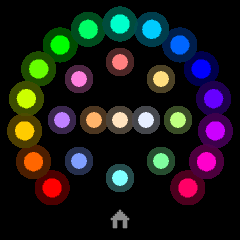
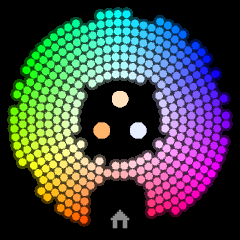
Colour wheel picker, true colours in night mode, 60 s update timeout
- Colour picker redrawn as a wheel of soft LEDs (hue around, saturation
  outwards) with a notch for the home icon; three whites in a triangle in
  the centre; no text. Taps pick any point on the wheel.
- Night mode no longer tints the picker red (ghost LEDs and home stay red).
- http_request timeout 10 s -> 60 s: 1.1.4 OTA downloads stalled part-way
  and were abandoned on a busy network.

diff --git a/pixizhi_draw.h b/pixizhi_draw.h
@@ -708,15 +708,15 @@ inline void music_hero(Canvas &cv, const UiState &s, const std::string &title, c
 constexpr int MUSIC_BTN_X[3] = {80, 120, 160};
 constexpr int MUSIC_BTN_Y = 177, MUSIC_BTN_HALF_W = 19, MUSIC_BTN_TAP_Y0 = 170, MUSIC_BTN_TAP_Y1 = 196;
 
-// Colour picker: 15 saturated hues on an open ring (gap at the bottom for the
-// home icon), 8 pastels inside it and three white temperatures in the middle.
-constexpr int SWATCH_HUES = 15, SWATCH_PASTELS = 8, SWATCH_WHITES = 3;
-constexpr int SWATCH_COUNT = SWATCH_HUES + SWATCH_PASTELS + SWATCH_WHITES;
-struct Swatch {
-  float x, y, pitch;
-  uint32_t rgb;
-  int kelvin;  // 0 for a colour, otherwise a white temperature
-};
+// Colour picker: a round wheel of soft LEDs in concentric rings (hue around,
+// saturation outwards) with a small notch at the bottom for the home icon, and
+// three white temperatures in a triangle in the middle. The hue starts and ends
+// with red at the notch, so there is no visible seam. Drawn in true colours,
+// also in night mode.
+constexpr float WHEEL_IN = 46, WHEEL_OUT = 106, WHEEL_PITCH = 8.6f;
+constexpr float HOME_X = 120, HOME_Y = 210, HOME_CLEAR = 31;  // notch around the home icon
+constexpr float WHITE_R = 21, WHITE_PITCH = 19;
+constexpr int WHITE_COUNT = 3;
 inline uint32_t hsv_rgb(float h, float sat) {
   h = fmodf(h, 360.0f);
   const float c = sat, x = c * (1 - fabsf(fmodf(h / 60.0f, 2.0f) - 1)), m = 1 - c;
@@ -725,41 +725,74 @@ inline uint32_t hsv_rgb(float h, float sat) {
   else if (h < 240) { g = x; b = c; } else if (h < 300) { r = x; b = c; } else { r = c; b = x; }
   return (uint32_t(roundf((r + m) * 255)) << 16) | (uint32_t(roundf((g + m) * 255)) << 8) | uint32_t(roundf((b + m) * 255));
 }
-inline Swatch swatch(int i) {
-  if (i < SWATCH_HUES) {
-    const float a = (135.0f + i * 270.0f / (SWATCH_HUES - 1)) * 0.0174532925f;
-    return Swatch{120 + cosf(a) * 96, 120 + sinf(a) * 96, 22, hsv_rgb(i * 360.0f / SWATCH_HUES, 1.0f), 0};
-  }
-  i -= SWATCH_HUES;
-  if (i < SWATCH_PASTELS) {
-    const float a = (-90.0f + i * 360.0f / SWATCH_PASTELS) * 0.0174532925f;
-    return Swatch{120 + cosf(a) * 58, 120 + sinf(a) * 58, 18, hsv_rgb(i * 360.0f / SWATCH_PASTELS, 0.5f), 0};
-  }
-  i -= SWATCH_PASTELS;
-  static const uint32_t WHITES[SWATCH_WHITES] = {0xFFB46B, 0xFFE2BD, 0xE6EEFF};
-  static const int KELVIN[SWATCH_WHITES] = {2700, 4000, 6500};
-  return Swatch{94.0f + i * 26, 120, 18, WHITES[i], KELVIN[i]};
+struct WhiteDot {
+  float x, y;
+  uint32_t rgb;
+  int kelvin;
+};
+// Warm at the bottom left, neutral at the top, cool at the bottom right.
+inline WhiteDot white_dot(int i) {
+  static const uint32_t RGB[WHITE_COUNT] = {0xFFB46B, 0xFFE2BD, 0xE6EEFF};
+  static const int KELVIN[WHITE_COUNT] = {2700, 4000, 6500};
+  static const float ANGLE[WHITE_COUNT] = {150, 270, 30};  // degrees, screen coordinates
+  const float a = ANGLE[i] * 0.0174532925f;
+  return WhiteDot{120 + cosf(a) * WHITE_R, 120 + sinf(a) * WHITE_R, RGB[i], KELVIN[i]};
 }
-// Swatch under a point, or -1.
-inline int swatch_at(int px, int py) {
-  int best = -1;
-  float best_d = 1e9f;
-  for (int i = 0; i < SWATCH_COUNT; i++) {
-    const Swatch w = swatch(i);
-    const float dx = px - w.x, dy = py - w.y, d = dx * dx + dy * dy, reach = w.pitch * 0.42f + 6;
-    if (d <= reach * reach && d < best_d) { best = i; best_d = d; }
+// Colour of the wheel at a point; false outside the wheel or in the notch.
+inline bool wheel_color(float px, float py, uint32_t &out, float slack = 0) {
+  const float dx = px - 120, dy = py - 120, d = sqrtf(dx * dx + dy * dy);
+  if (d < WHEEL_IN - slack || d > WHEEL_OUT + slack) return false;
+  const float hx = px - HOME_X, hy = py - HOME_Y;
+  if (hx * hx + hy * hy < HOME_CLEAR * HOME_CLEAR) return false;
+  float a = atan2f(-dx, dy) * 57.2957795f;  // 0 at the bottom, clockwise
+  if (a < 0) a += 360;
+  const float sat = 0.2f + 0.8f * std::min(1.0f, std::max(0.0f, (d - WHEEL_IN) / (WHEEL_OUT - WHEEL_IN)));
+  out = hsv_rgb(a, sat);
+  return true;
+}
+// What a tap picks: 0 nothing, 1 a colour (rgb), 2 a white (kelvin).
+struct ColorPick {
+  int kind = 0;
+  uint32_t rgb = 0;
+  int kelvin = 0;
+};
+inline ColorPick color_pick(int px, int py) {
+  ColorPick p;
+  for (int i = 0; i < WHITE_COUNT; i++) {
+    const WhiteDot w = white_dot(i);
+    const float dx = px - w.x, dy = py - w.y;
+    if (dx * dx + dy * dy <= 13 * 13) { p.kind = 2; p.rgb = w.rgb; p.kelvin = w.kelvin; return p; }
   }
-  return best;
+  if (wheel_color(px, py, p.rgb, 6)) p.kind = 1;
+  return p;
 }
 
 inline void draw_colors(Canvas &cv, const UiState &s) {
   if (s.cur_slot < 0 || s.cur_slot >= 6) { footer(cv, s); return; }
   const auto &q = s.slots[s.cur_slot];
-  for (int i = 0; i < SWATCH_COUNT; i++) {
-    const Swatch w = swatch(i);
-    const bool on = q.available && (w.kelvin ? q.white : q.color);
-    led(cv, w.x, w.y, w.pitch, on ? rgb(w.rgb) : GHOST, on);
+  // A colour picker has to show the real colours, so the night tint is lifted
+  // for lit LEDs only; unavailable (ghost) LEDs and the home icon stay red.
+  const bool night = cv.night;
+  const bool colors = q.available && q.color, whites = q.available && q.white;
+  const int rings = int(roundf((WHEEL_OUT - WHEEL_IN) / WHEEL_PITCH));
+  for (int k = 0; k <= rings; k++) {
+    const float r = WHEEL_IN + k * (WHEEL_OUT - WHEEL_IN) / rings;
+    const int n = int(roundf(2 * 3.14159265f * r / WHEEL_PITCH));
+    for (int j = 0; j < n; j++) {
+      const float a = (j + 0.5f * (k & 1)) * 2 * 3.14159265f / n;
+      const float x = 120 + cosf(a) * r, y = 120 + sinf(a) * r;
+      uint32_t c;
+      if (!wheel_color(x, y, c)) continue;
+      cv.night = night && !colors;
+      led(cv, x, y, WHEEL_PITCH, colors ? rgb(c) : GHOST, colors);
+    }
   }
+  for (int i = 0; i < WHITE_COUNT; i++) {
+    const WhiteDot w = white_dot(i);
+    cv.night = night && !whites;
+    led(cv, w.x, w.y, WHITE_PITCH, whites ? rgb(w.rgb) : GHOST, false);
+  }
+  cv.night = night;
   footer(cv, s);
 }
 

diff --git a/tests/test_helpers.cpp b/tests/test_helpers.cpp
@@ -73,16 +73,27 @@ static void test_fold() {
   CHECK(fold("\xC5") == "?");                                               // truncated sequence does not overrun
 }
 
-static void test_swatches() {
+static void test_color_wheel() {
   using namespace draw;
-  for (int i = 0; i < SWATCH_COUNT; i++) {
-    const Swatch w = swatch(i);
-    CHECK(swatch_at(int(roundf(w.x)), int(roundf(w.y))) == i);  // every swatch can be hit at its centre
-    const float dx = w.x - 120, dy = w.y - 120;
-    CHECK(dx * dx + dy * dy < 116 * 116);                        // and sits inside the round screen
-    CHECK((w.kelvin != 0) == (i >= SWATCH_HUES + SWATCH_PASTELS));
+  for (int i = 0; i < WHITE_COUNT; i++) {
+    const WhiteDot w = white_dot(i);
+    const ColorPick p = color_pick(int(roundf(w.x)), int(roundf(w.y)));
+    CHECK(p.kind == 2 && p.kelvin == w.kelvin);  // every white can be hit at its centre
   }
-  CHECK(swatch_at(120, 210) == -1);  // the home icon stays free
+  CHECK(color_pick(120, 210).kind == 0);           // the home icon stays free
+  CHECK(color_pick(120, 120 - 104).kind == 1);     // the rim is a colour
+  uint32_t c = 0;
+  CHECK(wheel_color(120, 120 - WHEEL_OUT, c));
+  CHECK(!wheel_color(HOME_X, HOME_Y - 12, c));     // the notch around the home icon
+  CHECK(wheel_color(120, 120 + 50, c));            // but the wheel is otherwise round
+  CHECK(!wheel_color(120, 120 - 30, c));           // the middle belongs to the whites
+  // Both sides of the notch are red, so the hue has no jump.
+  const float a = 115 * 0.0174532925f, b = 65 * 0.0174532925f;
+  uint32_t l = 0, r = 0;
+  CHECK(wheel_color(120 + cosf(a) * WHEEL_OUT * 0.95f, 120 + sinf(a) * WHEEL_OUT * 0.95f, l));
+  CHECK(wheel_color(120 + cosf(b) * WHEEL_OUT * 0.95f, 120 + sinf(b) * WHEEL_OUT * 0.95f, r));
+  CHECK((l >> 16) > 0xE0 && (r >> 16) > 0xE0);
+  CHECK(WHEEL_OUT + WHEEL_PITCH * 0.42f < 116);    // the wheel sits inside the round screen
   CHECK(hsv_rgb(0, 1) == 0xFF0000 && hsv_rgb(120, 1) == 0x00FF00 && hsv_rgb(240, 1) == 0x0000FF);
 }
 
@@ -111,6 +122,18 @@ static void test_render() {
           CHECK(red_only);
         }
       }
+  // Night mode tints everything red except a usable colour picker.
+  {
+    UiState s;
+    s.screen = S_COLORS; s.cur_slot = 0;
+    s.slots[0].eid = "light.a"; s.slots[0].available = true; s.slots[0].color = true; s.slots[0].white = true;
+    cv.night = true;
+    draw_frame(cv, s);
+    bool colourful = false;
+    for (int i = 0; i < 240 * 240; i++) colourful |= cv.data[i * 3 + 1] > 64 || cv.data[i * 3 + 2] > 64;
+    CHECK(colourful);
+    CHECK(cv.night);  // the picker restores the night flag
+  }
   bool guard = true;
   for (int i = 0; i < 32; i++) guard &= buf[i] == 0xAB && buf[sizeof(buf) - 1 - i] == 0xAB;
   CHECK(guard);
@@ -121,7 +144,7 @@ int main() {
   test_time_helpers();
   test_versions();
   test_fold();
-  test_swatches();
+  test_color_wheel();
   test_render();
   if (failures) { printf("%d check(s) failed\n", failures); return 1; }
   printf("All helper tests passed\n");

diff --git a/README.md b/README.md
@@ -88,8 +88,9 @@ your own `ota:`/`wifi:` settings; see [configuration notes](docs/CONFIGURATION.m
   and on thermostats for target temperature. Keep navigation swipes in the centre.
 - Player: tap the small previous / play-pause / next controls, swipe left/right
   in the lower half, or double-tap to play/pause. Tap the artwork for options.
-- Lights: the palette button (or a swipe up) opens the colour picker; tap a
-  colour or one of the three whites, swipe down to go back.
+- Lights: the palette button (or a swipe up) opens the colour wheel; tap a
+  colour (pale towards the middle, saturated at the rim) or one of the three
+  whites in the centre, swipe down to go back.
 - Notifications: swipe vertically through a long message, tap to dismiss a normal
   alert, or hold for one second to dismiss an urgent alert.
 - Timer: tap −/+ to set minutes, then START. PAUSE/RESUME controls playback of the

diff --git a/CHANGELOG.md b/CHANGELOG.md
@@ -1,5 +1,17 @@
 # Changelog
 
+## Unreleased
+
+- Colour picker is now a colour wheel: hue around the ring, pale towards the
+  middle and saturated at the rim, so any colour can be picked, not only 23
+  presets. The three white temperatures sit in a triangle in the centre. No text.
+- Night mode no longer turns the colour picker red; the colours are shown as
+  they are (the home icon and unavailable lights stay red).
+- Firmware updates no longer give up when the download pauses for more than
+  10 seconds: the HTTP timeout is now 60 seconds. 1.1.4 updates could stop
+  part-way with "FAILED / Old firmware kept" on a busy network. This applies to
+  updates made from this version on.
+
 ## 1.1.4
 
 Update the firmware first, then re-import the screens blueprint: the new
